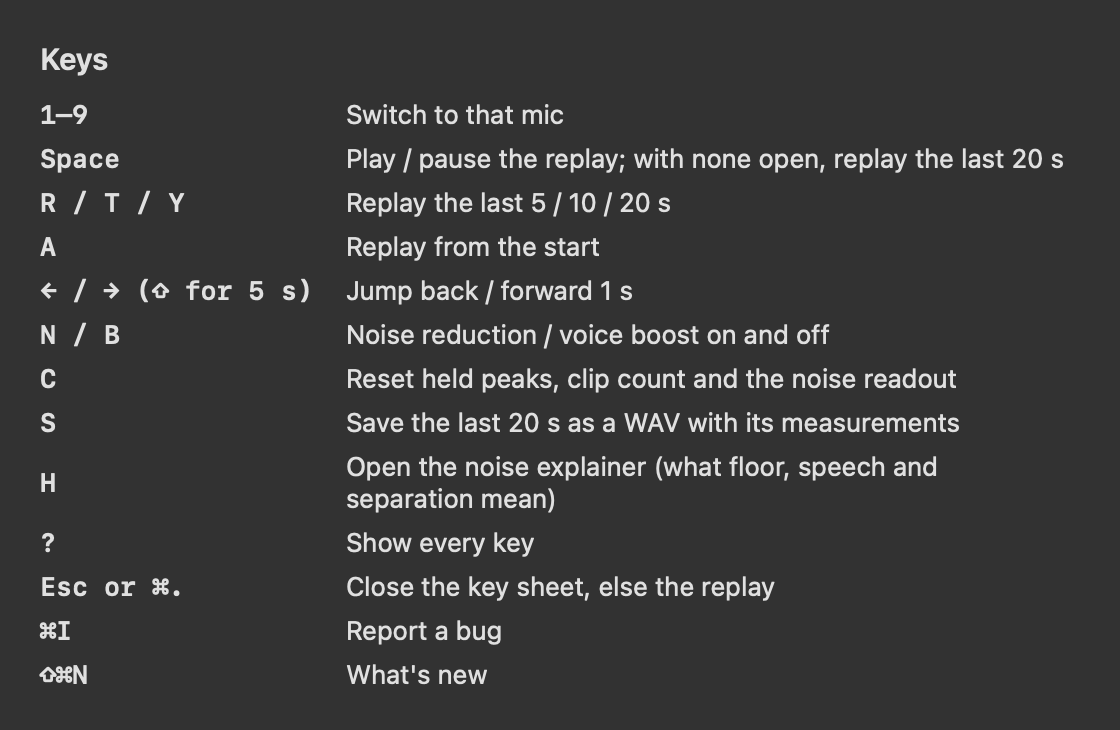
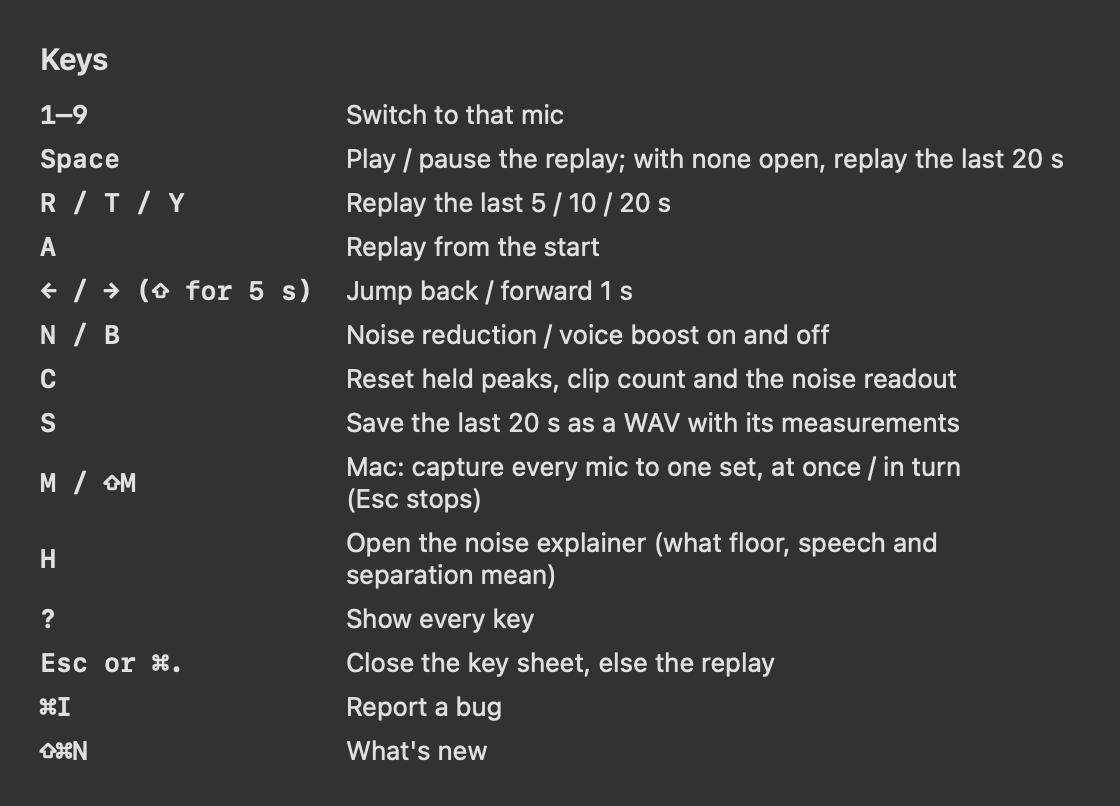
Capture sets: scripted runs need --mic (enforced in the app), selftest presses M / ⇧M, ⌘. stops a run, mic kinds logged, keys.png with M

diff --git a/Sources/AudioDebugger/CaptureSets.swift b/Sources/AudioDebugger/CaptureSets.swift
@@ -15,9 +15,15 @@ struct CaptureRun: Equatable {
 /// sample sidecar (with the mic's score) per mic, and `manifest.json` (AudioCore's `CaptureSet`). Each mic gets its
 /// own `Capture`; the live mic carries on. Spec: docs/specs/2026-11-26-compare-mics.md.
 extension AppModel {
-    /// `filter`: keep only mics whose name contains it (scripted runs, so they never open AirPods or wake a phone).
-    func captureSet(_ mode: CaptureSet.Mode, seconds: Double? = nil, matching filter: String? = nil) {
+    /// M / ⇧M. A scripted run (selftest) keeps only the `--mic` mics and takes 2 s each, and refuses without `--mic`,
+    /// so a script never opens AirPods or wakes a phone.
+    func captureSet(_ mode: CaptureSet.Mode) {
         guard captureRun == nil else { return }
+        let filter = Launch.scripted ? Launch.micName : nil
+        if Launch.scripted && filter == nil {
+            Log.app.error("capture set refused: a scripted run needs --mic to choose its mics")
+            return
+        }
         let chosen = mode.mics(from: mics, matching: filter)
         guard !chosen.isEmpty else {
             Log.app.info("capture set: no mics to capture (\(mode.rawValue, privacy: .public))")
@@ -25,7 +31,7 @@ extension AppModel {
             DispatchQueue.main.asyncAfter(deadline: .now() + 3) { MainActor.assumeIsolated { self.captureRun = nil } }
             return
         }
-        let secs = seconds ?? (mode == .together ? 10 : 6)
+        let secs: Double = Launch.scripted ? 2 : (mode == .together ? 10 : 6)
         SessionLog.shared.event(
             "capture_set_start", ["mode": mode.rawValue, "mics": chosen.map(\.name), "seconds": secs])
         // Set now, not in the task: a second M, or a caller waiting on the run, sees it at once.

diff --git a/Sources/AudioDebugger/Launch.swift b/Sources/AudioDebugger/Launch.swift
@@ -109,16 +109,17 @@ enum SelfTest {
     }
 
     #if os(macOS)
-    /// Stories 017/018: a 2 s capture set at once, then in turn, of the `--mic` mics only, so a selftest never opens
-    /// AirPods or wakes an iPhone; without `--mic` it is skipped. Checks each manifest and its files.
+    /// Stories 017/018: M, then ⇧M, through the keys: a 2 s capture set at once, then in turn, of the `--mic` mics
+    /// only, so a selftest never opens AirPods or wakes an iPhone (without `--mic` the app refuses). Checks each
+    /// manifest and its files.
     private static func captureSets(_ model: AppModel) async {
-        guard let filter = Launch.micName else {
+        guard Launch.micName != nil else {
             Log.selftest.info("capture set: skipped (no --mic filter)")
             return
         }
         for mode in [CaptureSet.Mode.together, .inTurn] {
             model.captureSaved = nil
-            model.captureSet(mode, seconds: 2, matching: filter)
+            _ = model.press(.character(mode == .together ? "m" : "M"), shift: mode == .inTurn)
             var waited = 0
             while model.captureRun != nil && waited < 60 {
                 try? await Task.sleep(for: .seconds(0.5))

diff --git a/Sources/AudioDebugger/AppModel.swift b/Sources/AudioDebugger/AppModel.swift
@@ -153,7 +153,8 @@ final class AppModel {
     /// The device list changed (or first load). The decisions are `MicController`'s; this carries them out.
     private func micsChanged() {
         let list = Mics.all()
-        Log.mic.info("mics: \(list.map(\.name).joined(separator: ", "), privacy: .public)")
+        Log.mic.info(
+            "mics: \(list.map { "\($0.name) (\($0.kind.rawValue))" }.joined(separator: ", "), privacy: .public)")
         SessionLog.shared.event("mics", ["names": list.map(\.name)])
         perform(
             micControl.devicesChanged(

diff --git a/Sources/AudioDebugger/Keys.swift b/Sources/AudioDebugger/Keys.swift
@@ -81,9 +81,15 @@ extension AppModel {
         return true
     }
 
-    /// ⌘. (the iPad's Folio has no Esc): the key sheet first, else the replay.
+    /// ⌘. (the iPad's Folio has no Esc): the key sheet first, then a capture set being taken, else the replay.
     func cancel() {
-        if showKeys { showKeys = false } else { closeReplay() }
+        if showKeys {
+            showKeys = false
+        } else if captureRun != nil {
+            stopCaptureSet()
+        } else {
+            closeReplay()
+        }
     }
 }
 

diff --git a/docs/specs/2026-11-26-compare-mics.md b/docs/specs/2026-11-26-compare-mics.md
@@ -41,8 +41,10 @@ once. A failed open never stops the run.
 **Alignment.** Each `Capture` notes when the newest buffer it took in arrived (`ProcessInfo.systemUptime`, seconds
 since boot, one clock for every stream).
 A stream's start is that time minus its length. In a set taken at once, each stream's `offset` is its start minus the
-earliest start, so the viewer lines the streams up to within one buffer (about 10–20 ms): good for seeing and
-hearing the difference, not for phase. In turn, offsets are 0 and each stream keeps its own `started` time.
+earliest start. Arrival time includes each device's own latency, so this is an estimate, not yet measured: perhaps
+a buffer or two (tens of ms). Good for seeing and hearing the difference, not for phase. `offset` is the viewer's only
+alignment input, so a better estimate (cross-correlation, once Igor has a two-mic set) changes one number. In turn,
+offsets are 0 and each stream keeps its own `started` time.
 
 The phrase: "Six thick thistle sticks. A quick brown fox jumps over the lazy dog." Sibilants and plosives, to show
 the band and the clipping.
